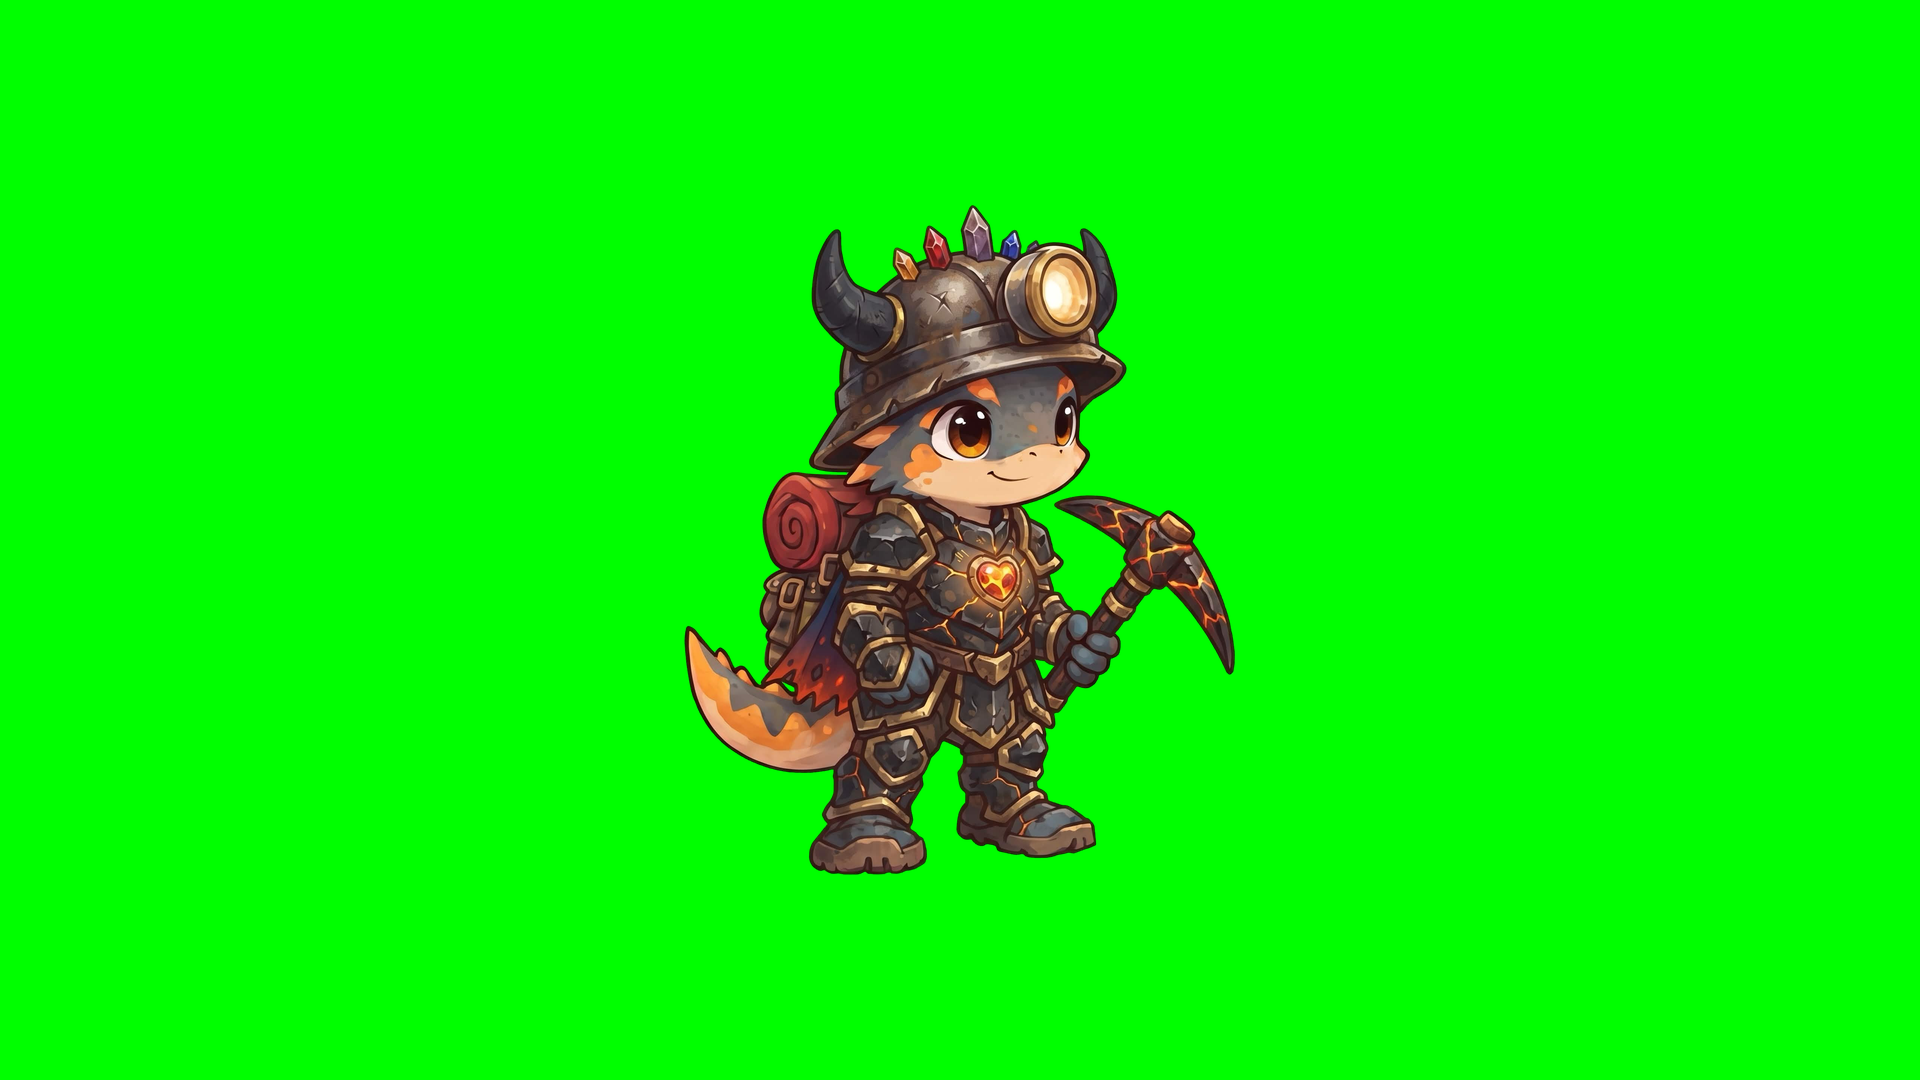
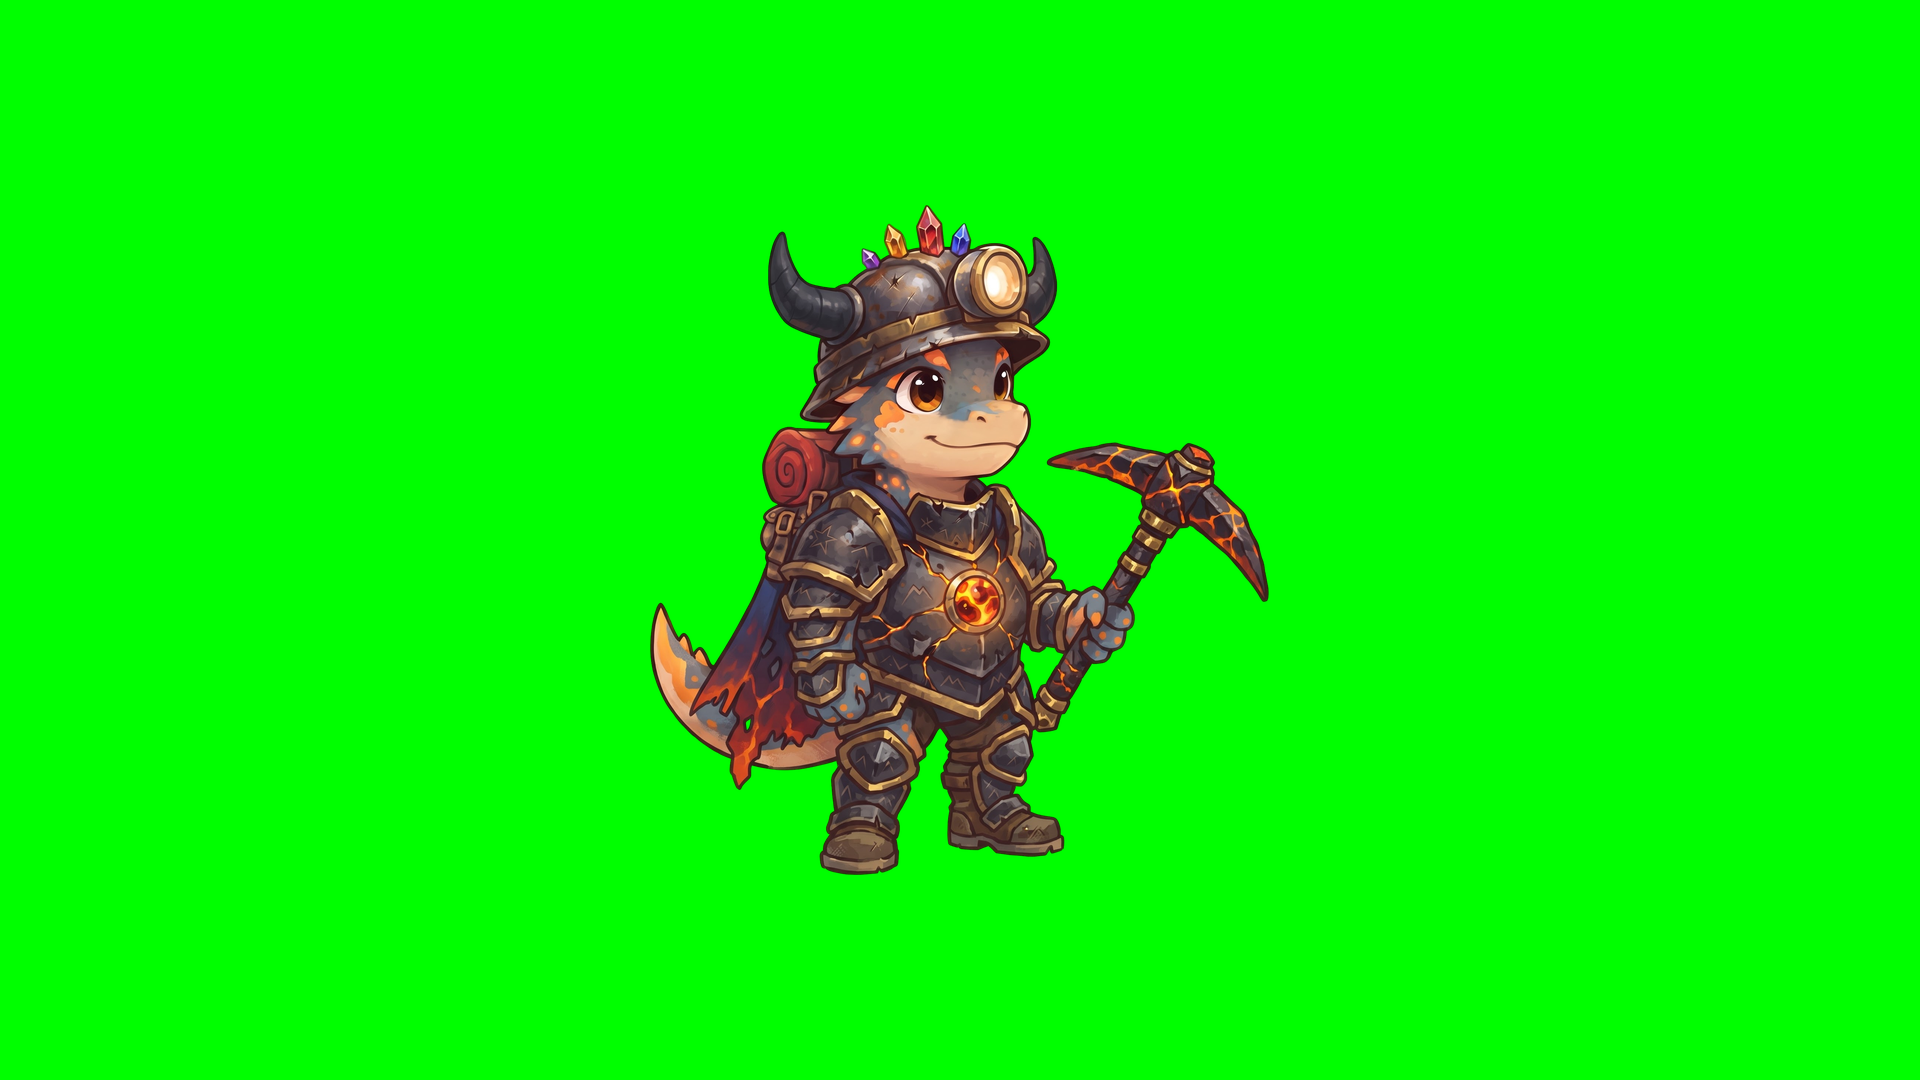
feat(évolution): image en pied du Cœur du monde assortie au portrait
Nouvelle image Gemini faite à partir du buste retenu par Théo : même casque
à cornes et même cœur de lave rond dans le plastron. L'image de départ de la
vidéo de frappe est refaite à partir d'elle.

Changed region(s): [[0.3125, 0.1833, 0.6875, 0.825]]

diff --git a/art-source/evolutions/preparer-coeur.py b/art-source/evolutions/preparer-coeur.py
@@ -1,6 +1,6 @@
 """Prépare les images de la Légende du Cœur du monde et des étoiles de rang (sources Gemini sur fond vert #00FF00).
 
-  evolutions/coeur-pied.png -> frontend/public/assets/evolutions/coeur.webp (corps fixe, en attendant l'animation)
+  evolutions/coeur-pied.jpg -> frontend/public/assets/evolutions/coeur.webp (corps fixe, en attendant l'animation)
                             -> art-source/animations/coeur-depart-16x9.png (image de départ de la vidéo de frappe)
   evolutions/coeur-portrait.jpg -> frontend/public/assets/evolutions/coeur-portrait.webp (tête et plastron, 160 px)
   ui/etoiles.png            -> frontend/public/assets/ui/etoile-pleine.webp et etoile-vide.webp
@@ -53,7 +53,7 @@ def fit_height(image: Image.Image, height: int) -> Image.Image:
 
 
 def prepare_heart() -> None:
-    keyed = key_out_green(Image.open(ART / "evolutions" / "coeur-pied.png"))
+    keyed = key_out_green(Image.open(ART / "evolutions" / "coeur-pied.jpg"))
     body = trim(keyed)
     fit_height(body, BODY_HEIGHT).save(ASSETS / "evolutions" / "coeur.webp", quality=QUALITY)
     start = Image.new("RGBA", START_SIZE, (*GREEN, 255))

diff --git a/docs/game-design/etoiles-de-legende.md b/docs/game-design/etoiles-de-legende.md
@@ -47,7 +47,7 @@ Les gardiens des zones 13 à 20 tombent en 7 à 28 s : ils restent un vrai comba
 
 ## Prompts Gemini de la Légende du Cœur du monde
 
-Même méthode que les autres formes (voir [[prompts-gemini]]) : une image par message, et `art-source/evolutions/legende-pied.png` jointe comme référence, pour garder le même personnage. Dépose les résultats dans `art-source/evolutions/` (`coeur-portrait.png`, `coeur-pied.png`) et la vidéo dans `art-source/animations/coeur-frappe.mp4`. Ensuite, `decouper-frappe.py` fabrique l'animation, et `EVOLUTION_VISUALS.heart` dans `loading/game-assets.ts` pointe vers les nouveaux fichiers.
+Même méthode que les autres formes (voir [[prompts-gemini]]) : une image par message, et `art-source/evolutions/legende-pied.png` jointe comme référence, pour garder le même personnage. Dépose les résultats dans `art-source/evolutions/` (`coeur-portrait.png`, `coeur-pied.jpg`) et la vidéo dans `art-source/animations/coeur-frappe.mp4`. Ensuite, `decouper-frappe.py` fabrique l'animation, et `EVOLUTION_VISUALS.heart` dans `loading/game-assets.ts` pointe vers les nouveaux fichiers.
 
 ### Description commune (à coller en tête du portrait et de l'image en pied)
 
